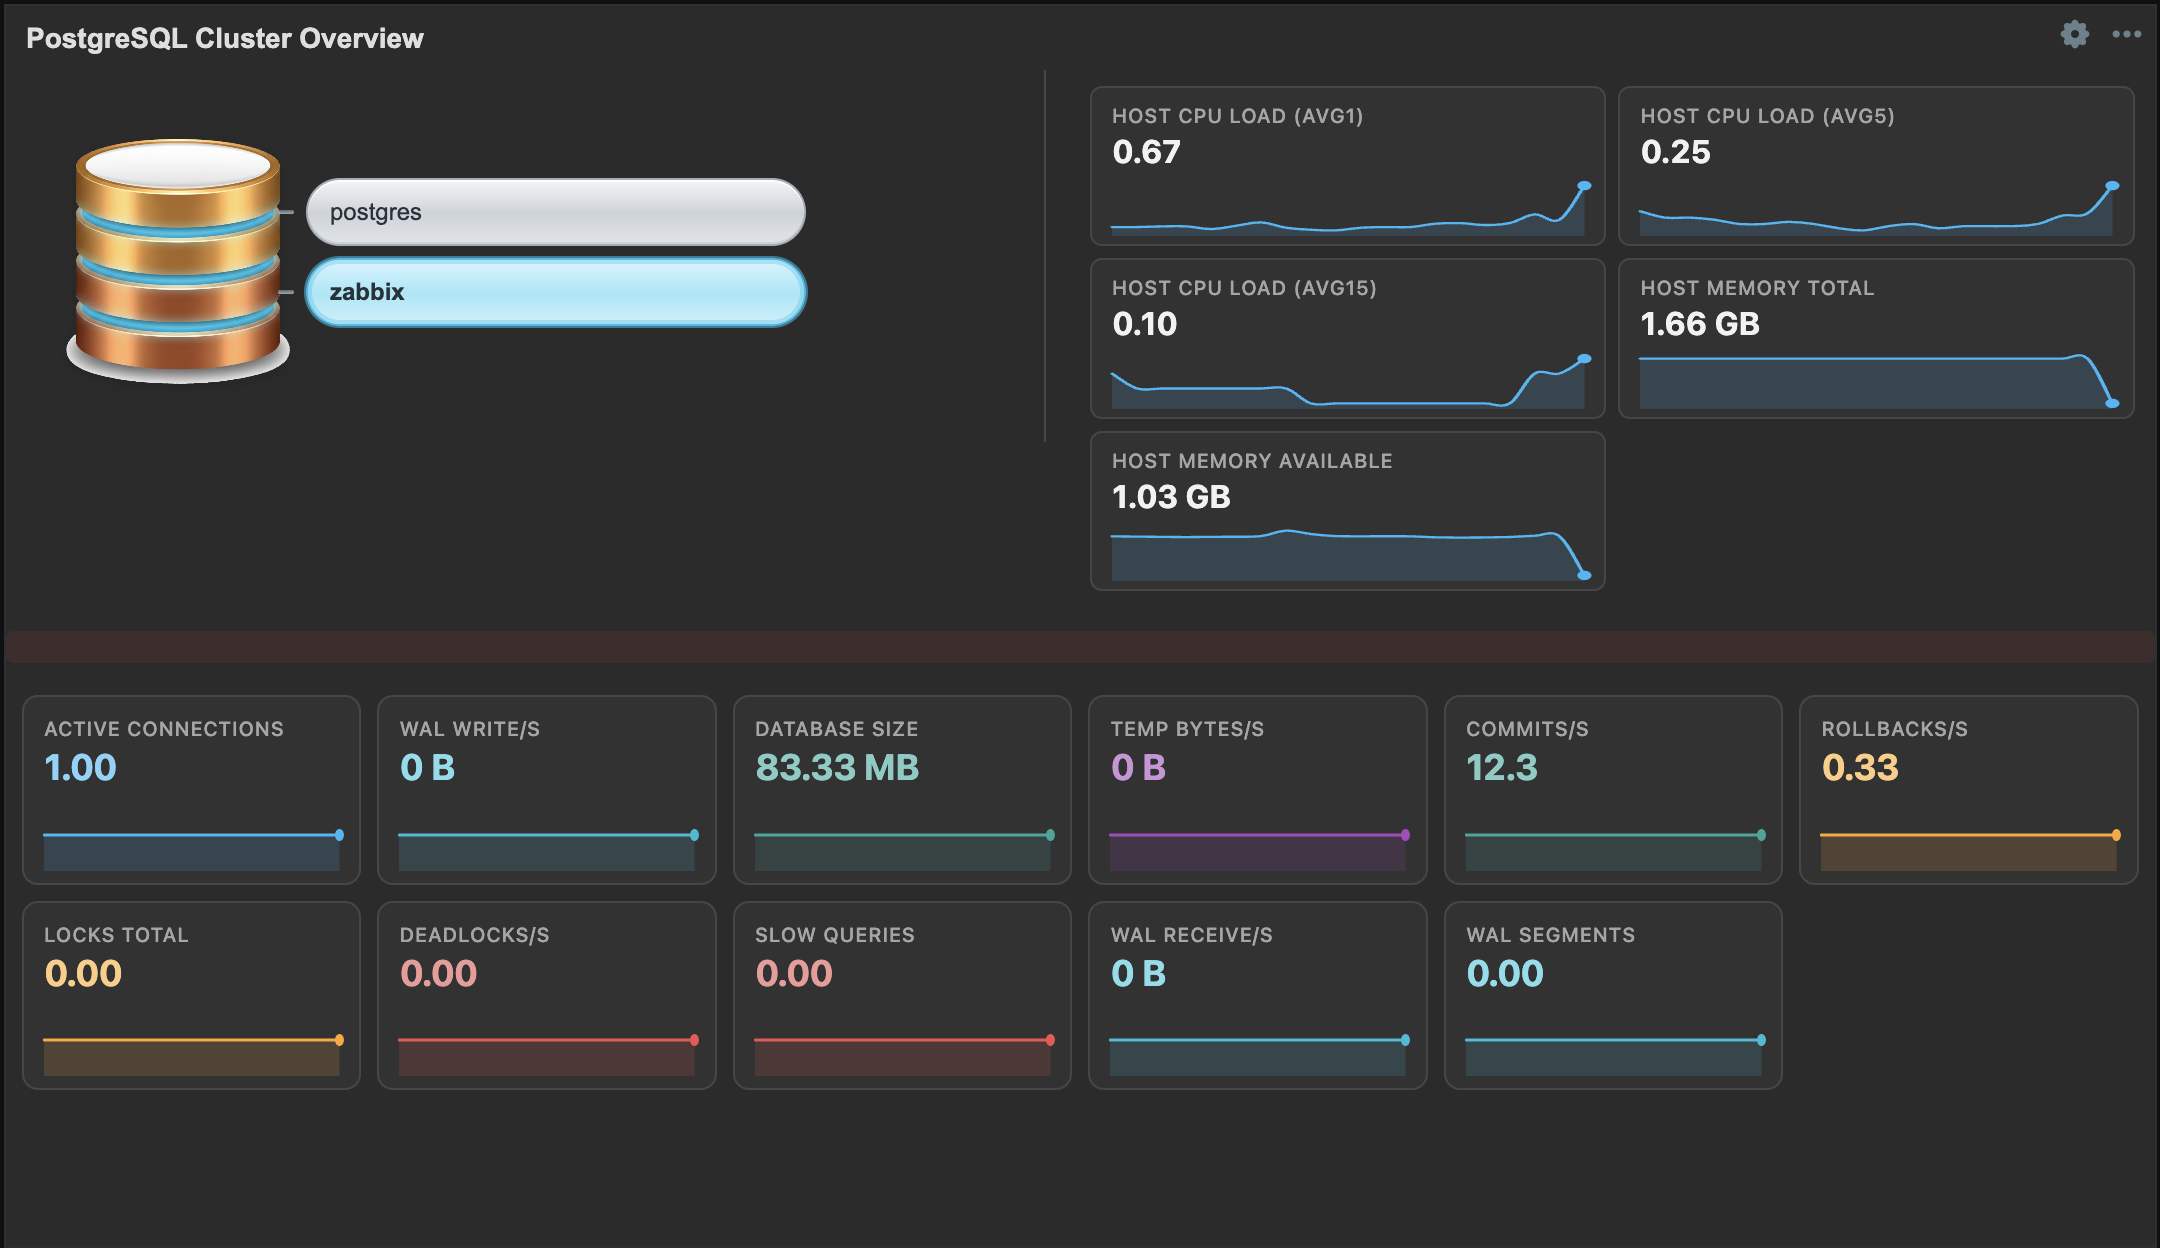
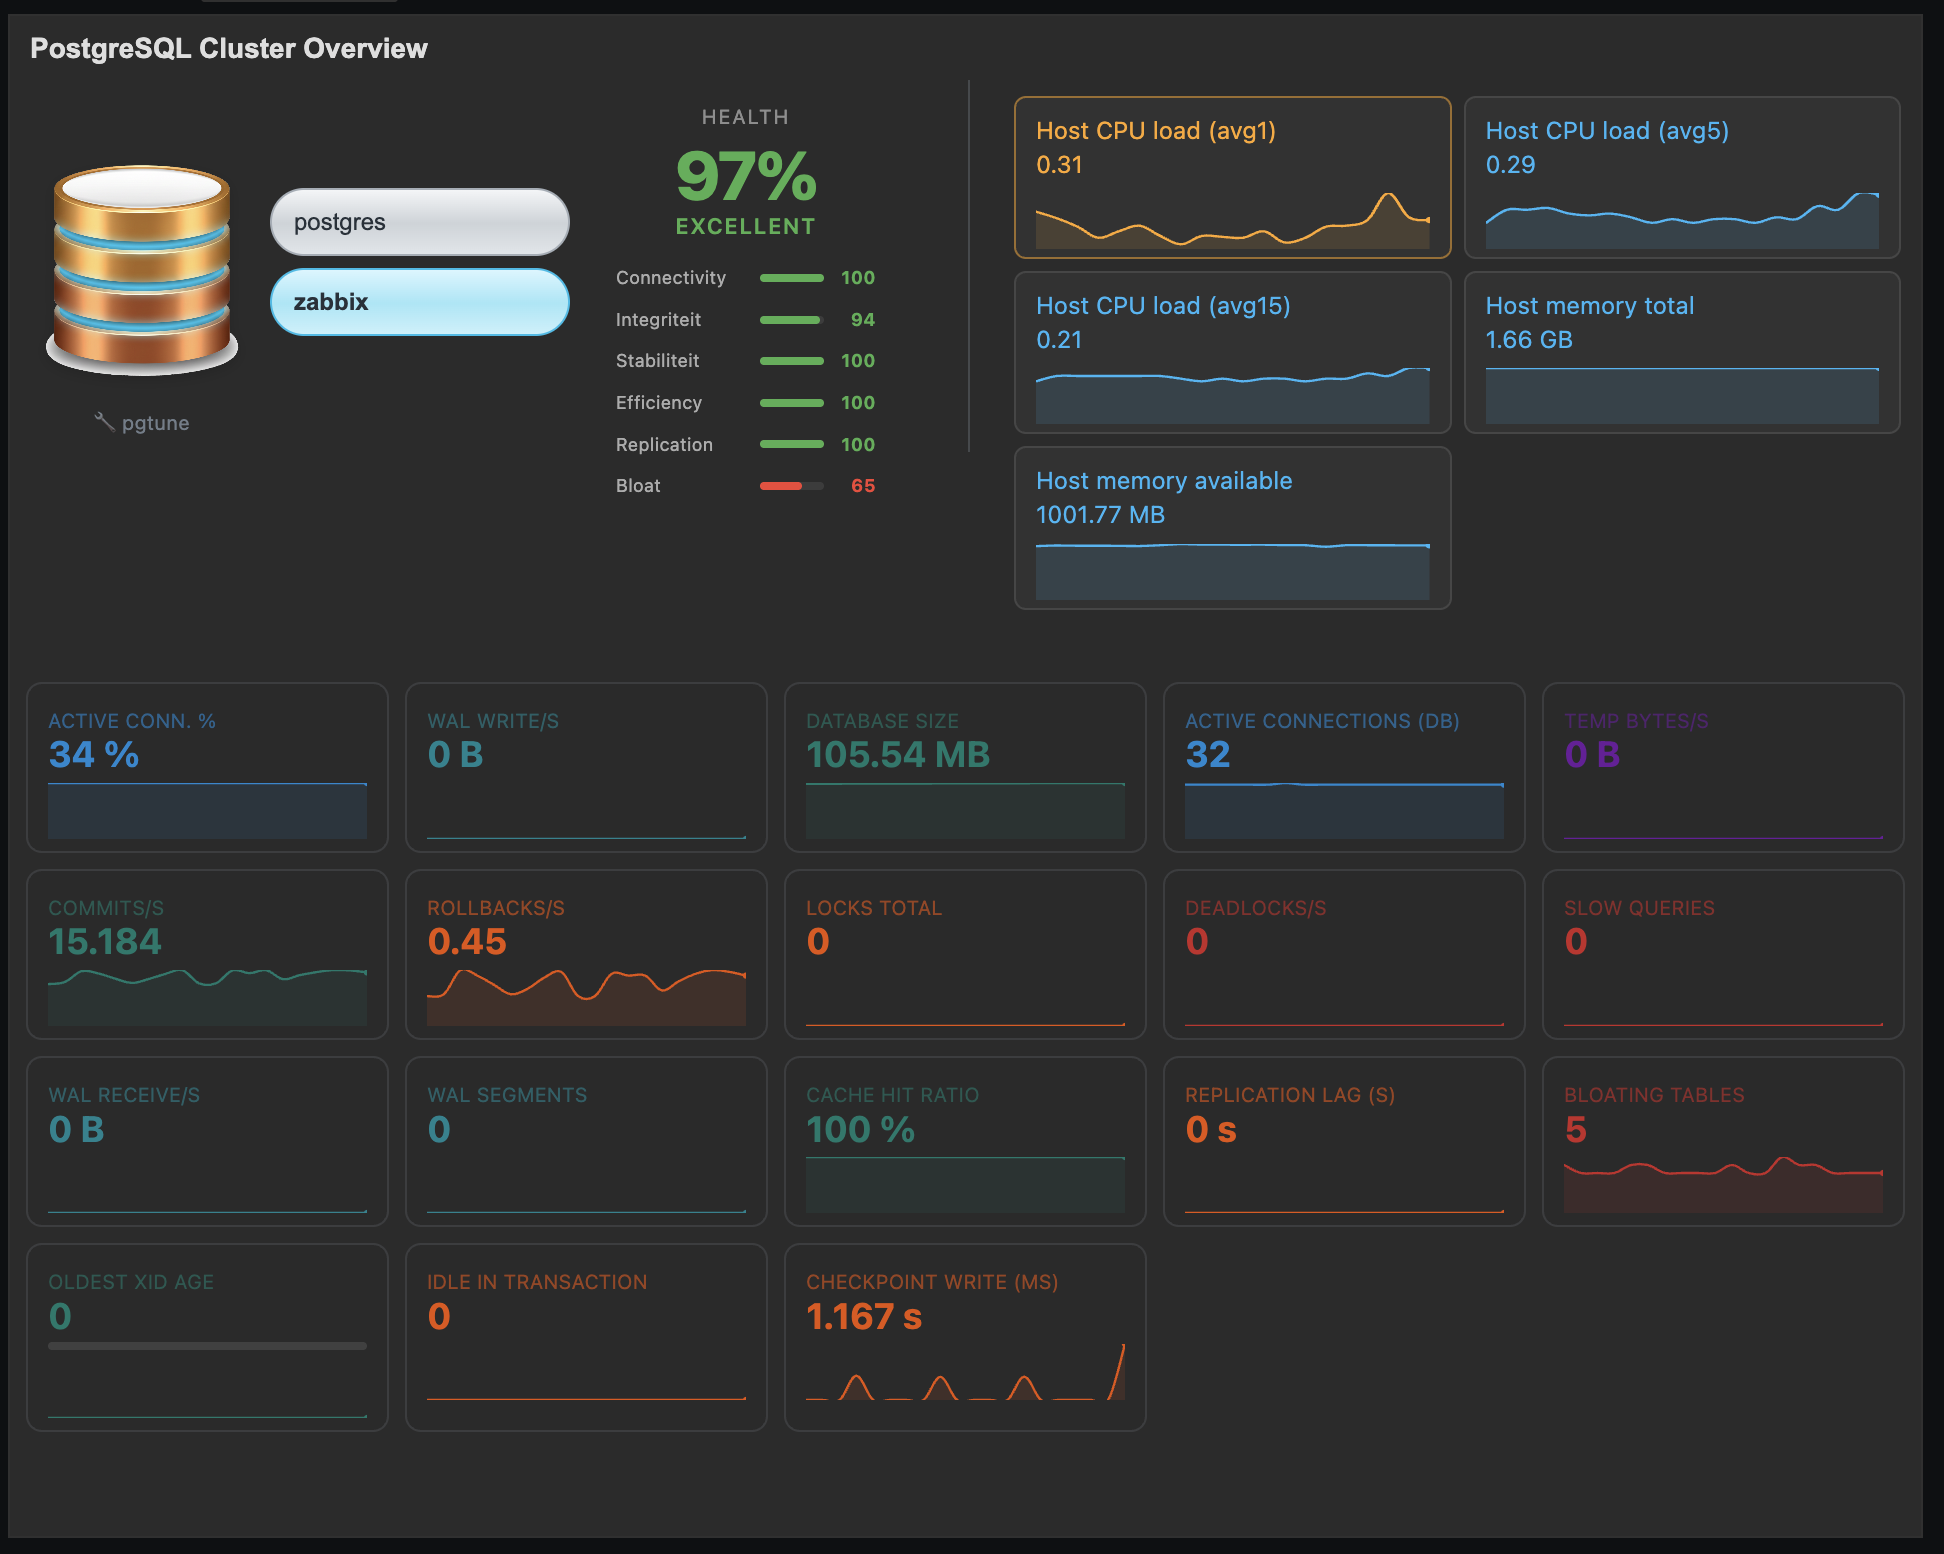
update readme

diff --git a/README.md b/README.md
@@ -1,37 +1,120 @@
 # PostgreSQL Cluster Overview — Zabbix 7 Widget
 
 A custom Zabbix dashboard widget that displays a selectable PostgreSQL cluster
-database overview with real-time metrics and sparklines, based on the official
-**PostgreSQL by Zabbix agent 2** template.
+database overview with real-time metrics, sparklines, and an at-a-glance health
+score — based on the official **PostgreSQL by Zabbix agent 2** template.
 
 ![PGSQL Widget](pgsql-widget.png)
 
+---
+
 ## What this widget does
 
+### Health Score
+A weighted health score (0–100%) is displayed prominently in the header, calculated
+from six categories:
+
+| Category | Weight | What it measures |
+|---|---|---|
+| Connectivity | 25% | Active connections as % of `max_connections` |
+| Integriteit | 20% | Rollback ratio vs. commits |
+| Stabiliteit | 20% | Idle-in-transaction sessions + XID age |
+| Efficiency | 20% | Cache hit ratio + slow queries |
+| Replication | 10% | Replication lag + WAL segment count |
+| Bloat | 5% | Number of bloating tables |
+
+Color coding: **green** (≥ 90% — Excellent), **orange** (≥ 70% — Let op), **red** (< 70% — Kritiek).  
+The score updates automatically when switching between databases. Hover over the score block to see per-category details.
+
+---
+
+### Database selector
 - Reads the database list from `pgsql.db.discovery[...]`
-- Shows a list of discovered databases with click-to-select buttons
-- Displays real sparklines (last 20 data points from Zabbix history) per metric
-- Shows per selected database:
-  - Database size
-  - Active backends
-  - Commits/s and Rollbacks/s
-  - Locks total and Deadlocks/s
-  - Temp bytes/s
-  - Slow queries
-- Shows cluster-wide metrics (active connections, WAL write/receive/count)
-- Shows host system metrics (CPU load avg1/5/15, memory total/available) with threshold-based color indicators
+- Clickable buttons to switch between discovered databases
+- A default database can be configured in the widget settings
+
+---
+
+### Per-database metrics
+Each metric card is clickable and opens the full Zabbix history graph in a new tab.
+
+| Metric | Item key prefix |
+|---|---|
+| Database size | `pgsql.db.size[` |
+| Active backends | `pgsql.dbstat.numbackends[` |
+| Commits/s | `pgsql.dbstat.xact_commit.rate[` |
+| Rollbacks/s | `pgsql.dbstat.xact_rollback.rate[` |
+| Locks total | `pgsql.locks.total[` |
+| Deadlocks/s | `pgsql.dbstat.deadlocks.rate[` |
+| Temp bytes/s | `pgsql.dbstat.temp_bytes.rate[` |
+| Slow queries | `pgsql.queries.query.slow_count[` |
+| Bloating tables | `pgsql.db.bloating_tables[` |
+
+---
+
+### Cluster-wide metrics
+
+| Metric | Item key |
+|---|---|
+| Active connections % | `pgsql.connections.sum.total_pct` |
+| WAL write/s | `pgsql.wal.write` |
+| WAL receive/s | `pgsql.wal.receive` |
+| WAL segment count | `pgsql.wal.count` |
+| Cache hit ratio | `pgsql.cache.hit` |
+| Replication lag (s) | `pgsql.replication.lag.sec[` *(prefix)* |
+| Oldest XID Age | `pgsql.oldest.xid[` *(prefix)* |
+| Idle in transaction | `pgsql.connections.sum.idle_in_transaction` |
+| Checkpoint write time | `pgsql.bgwriter.checkpoint_write_time.rate` |
+| Checkpoint Req/s | `pgsql.bgwriter.checkpoint_req` *(if available)* |
+| Checkpoint Sch/s | `pgsql.bgwriter.checkpoint_scheduled` *(if available)* |
+
+The **Oldest XID Age** card includes a progress bar that turns orange above 100 million
+and red above 150 million, warning before the ~2 billion wraparound limit.
+
+---
+
+### Host system metrics
+Displayed in the top-right section with sparklines and threshold-based color indicators:
+
+- Host CPU load (avg1 / avg5 / avg15) — configurable warn/critical thresholds
+- Host memory total
+- Host memory available
+
+CPU avg1 turns **orange** when above the warn threshold and **red** above the critical threshold.
+
+---
+
+### Sparklines
+Every metric card and host metric shows a sparkline of the last 20 data points fetched
+from Zabbix history. All sparklines are clickable (if a Zabbix base URL is configured)
+and open the full history graph for that item.
+
+---
+
+### Tooltips
+Hover over any metric card to see a contextual explanation of what the metric means,
+what values to watch for, and what action to take.
+
+---
+
+### pgtune shortcut
+A subtle link to [pgtune.leopard.in.ua](https://pgtune.leopard.in.ua/) is shown below
+the database icon as a quick reference for PostgreSQL configuration tuning.
+
+---
 
 ## Requirements
 
-- Zabbix 7.0 but will probably also work on 7.x
+- Zabbix 7.0 (likely compatible with 7.x)
 - Host monitored with the **PostgreSQL by Zabbix agent 2** template
+
+---
 
 ## Installation
 
 Clone the repository directly into the Zabbix modules directory:
-
 ```bash
-cd /usr/share/zabbix/modules or modules/ui/
+cd /usr/share/zabbix/modules   # or /usr/share/zabbix/ui/modules
 git clone https://github.com/your-org/your-repo.git zabbix-widget-pgsql
 ```
 
@@ -40,10 +123,11 @@ Then activate the module in Zabbix:
 1. Go to **Administration → General → Modules**
 2. Click **Scan directory**
 3. Enable **PostgreSQL Cluster Overview**
-4. Add the widget to any dashboard and select your PostgreSQL host
+4. Add the widget to any dashboard and configure it
+
+---
 
 ## Updating
-
 ```bash
 cd /usr/share/zabbix/modules/zabbix-widget-pgsql
 git pull
@@ -51,8 +135,28 @@ git pull
 
 Reload your browser after updating to clear any cached JavaScript.
 
-## File structure
+---
 
+## Widget configuration
+
+All settings are available in the widget edit form:
+
+| Setting | Description |
+|---|---|
+| **Host** | The Zabbix host running the PostgreSQL agent 2 template |
+| **Database discovery item ID** | Optional — auto-detected from `pgsql.db.discovery` if left empty |
+| **Default database** | The database selected by default on load |
+| **Zabbix base URL** | e.g. `https://zabbix.example.com` — enables clickable graph links on all cards |
+| **Graph period** | Time range for graph links: 1h / 6h / 24h / 7d |
+| **CPU warn / high threshold** | Thresholds for CPU load color indicators |
+| **Show / Item key** | Per-metric toggles and item key overrides for non-standard templates |
+
+Every metric has both a **Show** toggle (Yes/No) and a configurable **item key**,
+allowing the widget to work with customized or non-standard PostgreSQL templates.
+
+---
+
+## File structure
 ```
 zabbix-widget-pgsql/
 ├── manifest.json
@@ -73,8 +177,12 @@ zabbix-widget-pgsql/
         └── postgres-icon-24.svg
 ```
 
+---
+
 ## Notes
 
 - If the discovery rule has not yet collected data, the widget falls back to metric keys already present on the host.
 - Asset paths are derived dynamically from the module folder name, so renaming the clone directory does not require any code changes.
 - To use a custom icon, place `postgres-icon-24.png` in `assets/img/`. The widget will prefer the `.png` and fall back to the `.svg` automatically.
+- The health score only includes categories for which data is available. Categories with no matching items are excluded from the weighted average rather than counted as zero.
+- Replication score defaults to 100 when no standby is detected (replication lag = n/a), as the absence of a standby is not considered a health risk by itself.
